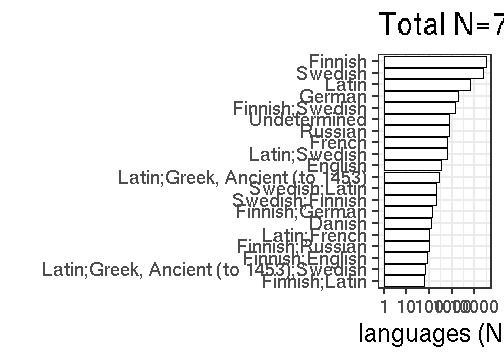
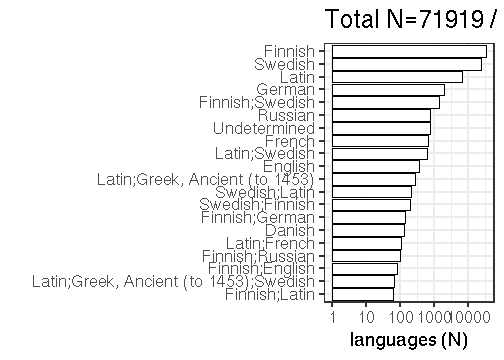
language polish

Changed region(s): [[0.0595, 0.0, 1.0, 0.9778]]

diff --git a/inst/examples/language.md b/inst/examples/language.md
@@ -1,27 +1,24 @@
 ---
 title: "Language summaries"
 author: "Leo Lahti"
-date: "2021-01-15"
+date: "2021-01-22"
 output: markdown_document
 ---
 
 ## Language
 
- * 15 [unique languages](output.tables/language_accepted.csv)
- * 13 [unique primary languages](output.tables/language_accepted.csv)  
- * 936 single-language documents (94.55%)
- * 54 multilingual documents (5.45%) 
+ * 40 [unique languages](output.tables/language_accepted.csv)
+ * 34 [unique primary languages](output.tables/language_accepted.csv)  
+ * 67623 single-language documents (94.03%)
+ * 4296 multilingual documents (5.97%) 
  * [Conversions from raw to preprocessed language entries](output.tables/language_conversions.csv) 
- * 9 documents (0.91%) with [unrecognized language](output.tables/language_discarded.csv)
+ * 733 documents (1.02%) with [unrecognized language](output.tables/language_discarded.csv)
 
 Language codes are from [MARC](http://www.loc.gov/marc/languages/language_code.html); new custom abbreviations can be added in [this table](https://github.com/COMHIS/fennica/blob/master/inst/extdata/language_abbreviations.csv).
 
 Title count per language (including multi-language documents; note the log10 scale):
 
-
-```
-## Error in top_plot(df, "languages", ntop = ntop, log10 = TRUE): could not find function "top_plot"
-```
+![plot of chunk summarylang](figure/summarylang-1.png)
 
 
 ### Top languages
@@ -32,14 +29,14 @@ see [accepted languages](output.tables/language_accepted.csv).
 
 |Language        |Documents (n) |Fraction (%) |
 |:---------------|:-------------|:------------|
-|Finnish         |455           |46           |
-|Swedish         |318           |32.1         |
-|Latin           |95            |9.6          |
-|German          |26            |2.6          |
-|Finnish;Swedish |17            |1.7          |
-|Latin;Swedish   |10            |1            |
-|French          |10            |1            |
-|Undetermined    |9             |0.9          |
-|Russian         |9             |0.9          |
-|English         |6             |0.6          |
+|Finnish         |32708         |45.5         |
+|Swedish         |23476         |32.6         |
+|Latin           |6587          |9.2          |
+|German          |1899          |2.6          |
+|Finnish;Swedish |1397          |1.9          |
+|Russian         |749           |1            |
+|Undetermined    |733           |1            |
+|French          |646           |0.9          |
+|Latin;Swedish   |610           |0.8          |
+|English         |345           |0.5          |
 
